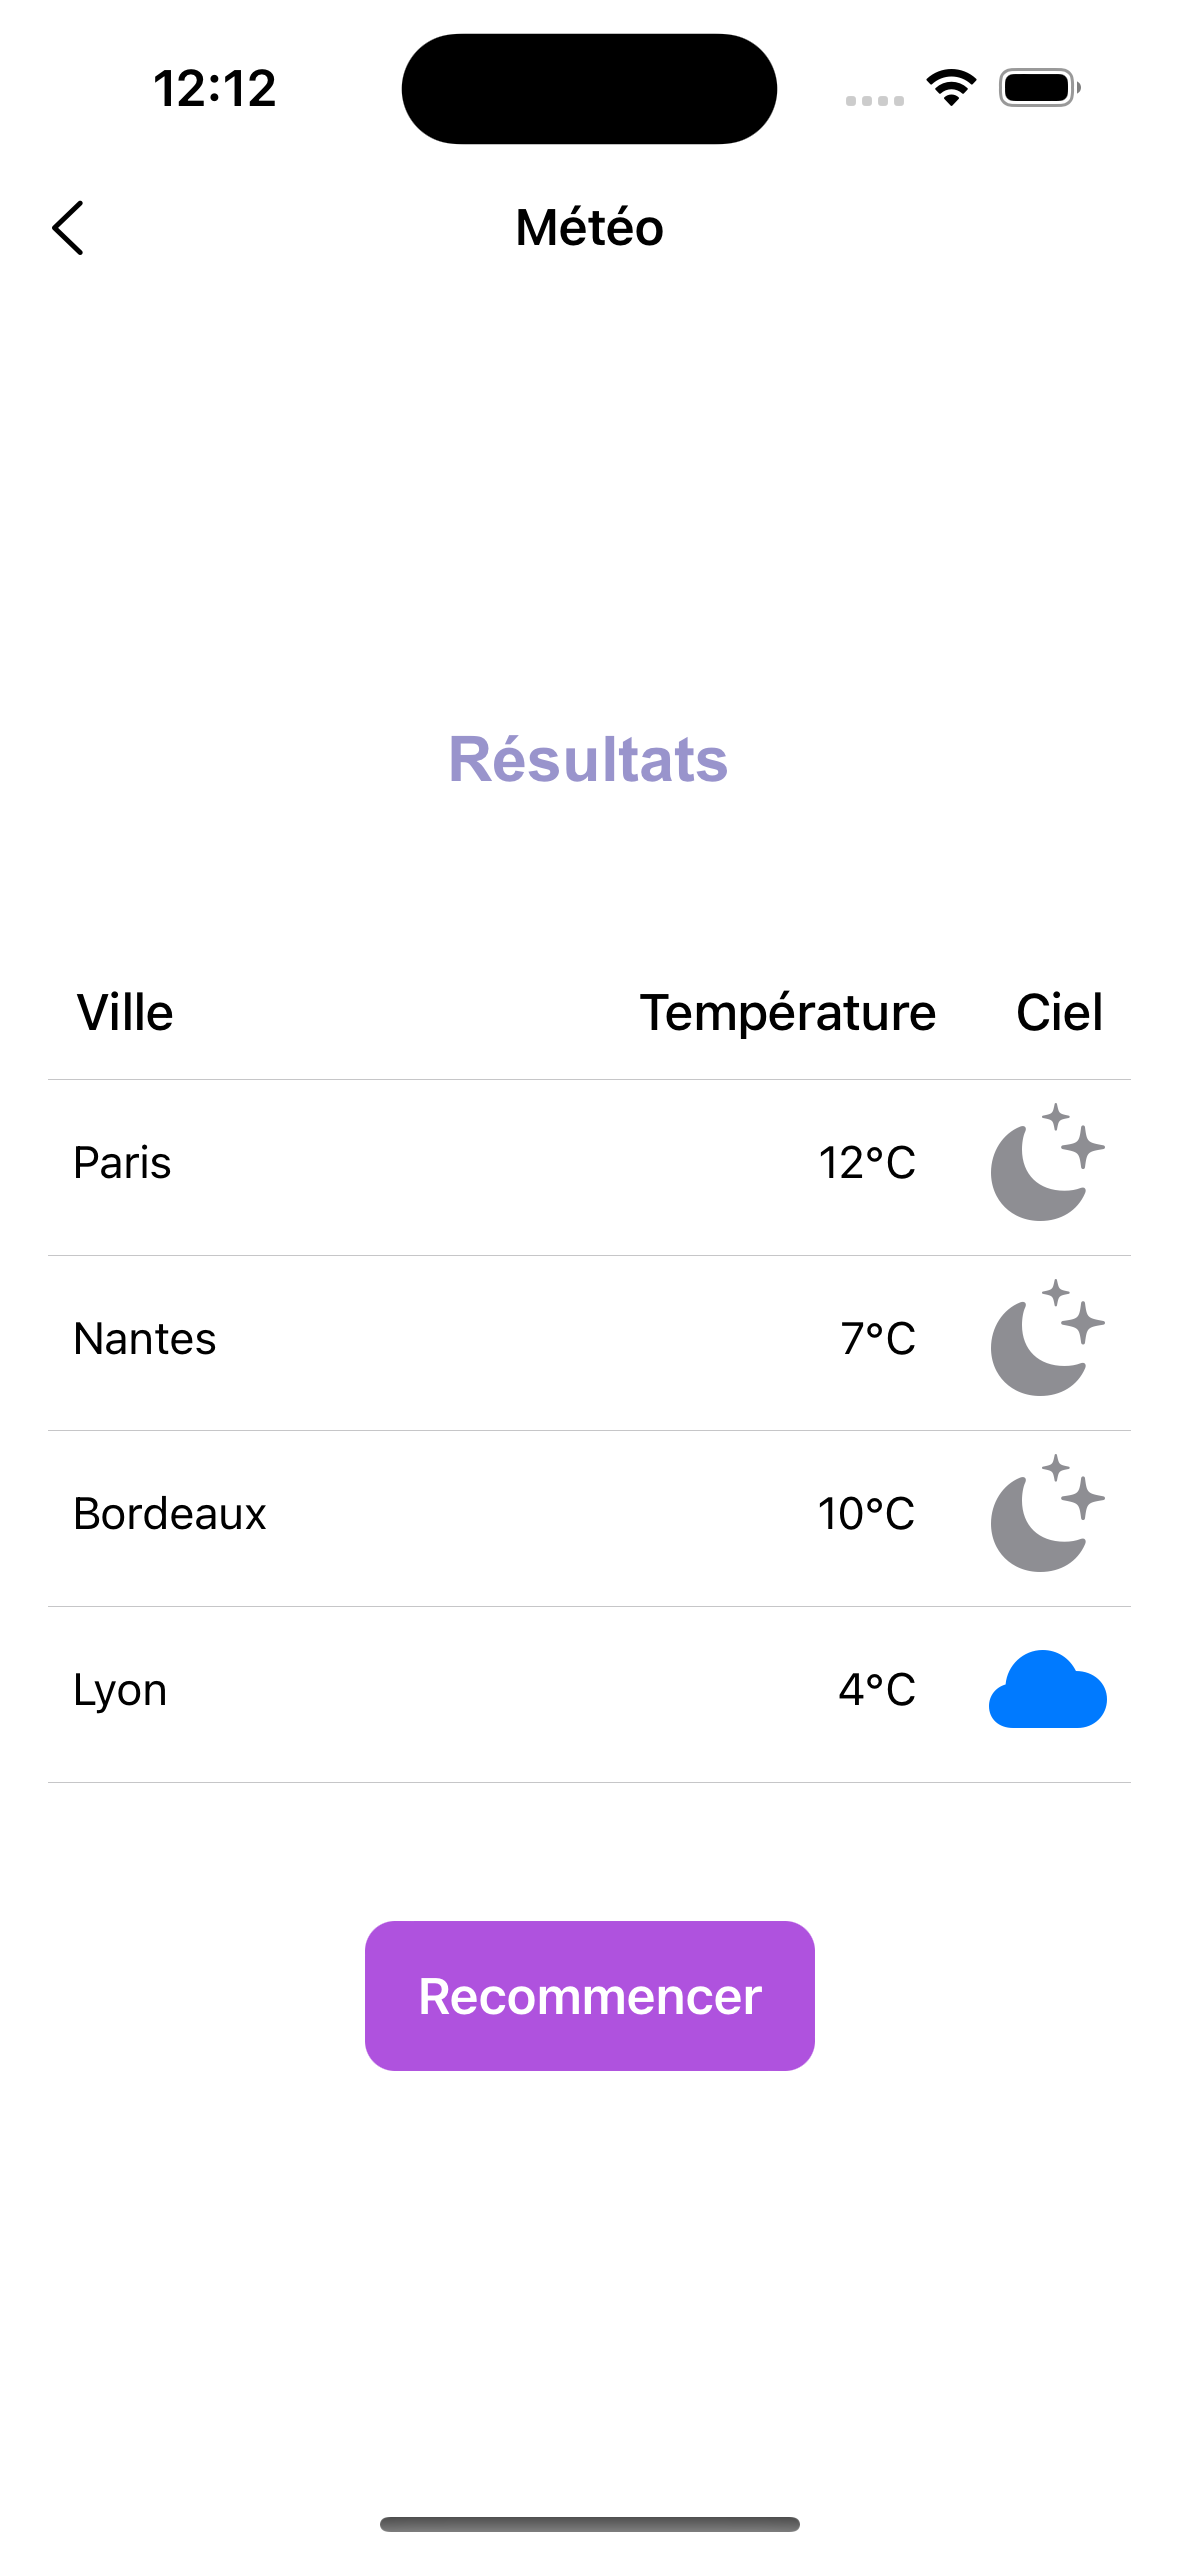
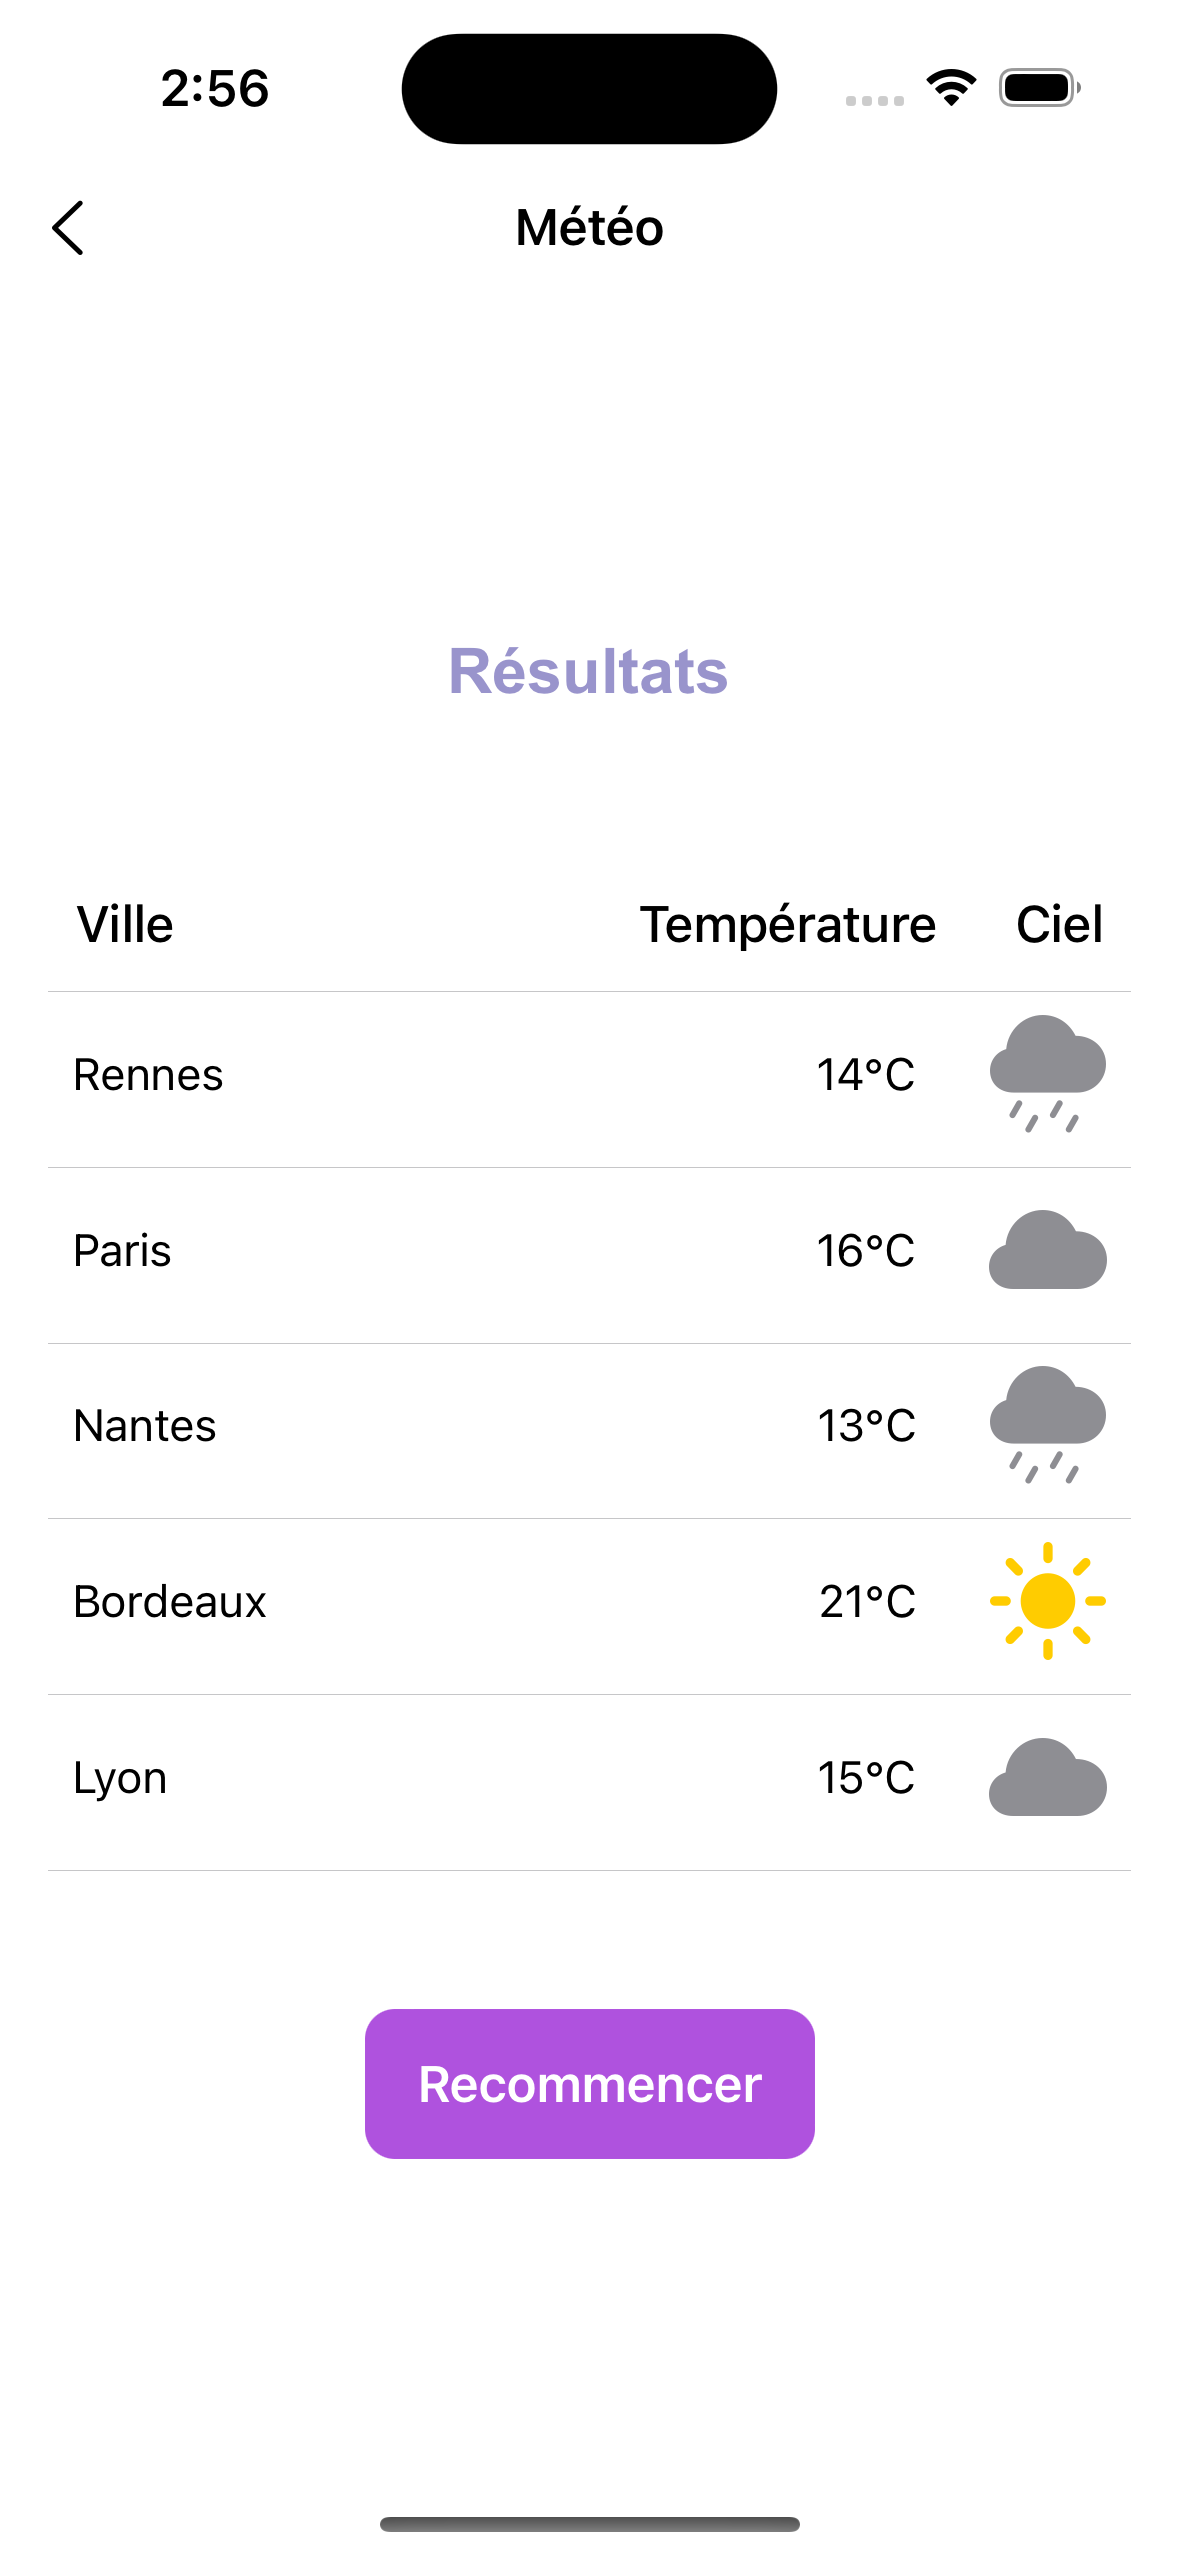
ajout de la ville de Rennes au tableau

diff --git a/EXOMIND/VIEWS/WeatherReportView.swift b/EXOMIND/VIEWS/WeatherReportView.swift
@@ -207,7 +207,7 @@ extension WeatherReportView {
     }
     
     func updatePercentage() {
-//         chaque 10 secondes, la jauge doit augmenter de 16.67%
+        // chaque 10 secondes, la jauge doit augmenter de 16.67%
         let increment = 10
         totalSeconds += Double(increment)
 
@@ -219,18 +219,23 @@ extension WeatherReportView {
 
         currentPercentage = (totalSeconds / 60) * 100
 
-//         Appel à l'API pour chaque ville pendant chaque intervalle de 10 secondes
+        // Appel à l'API pour chaque ville pendant chaque intervalle de 10 secondes
         apiCallInterval += increment
         if apiCallInterval >= 60 {
-//             réinitialise la variable apiCallInterval à 0
+            // réinitialise la variable apiCallInterval à 0
             apiCallInterval = 0
         }
+        
         let cities = ["Rennes", "Paris", "Nantes", "Bordeaux", "Lyon"]
         let apiKey = "3a629d79e54f226d5778cb740a6c7a61"
-        let cityIndex = Int(apiCallInterval / increment)
-        if cityIndex < cities.count {
+       let cityIndex = Int(apiCallInterval / increment) - 1
+      //  let cityIndex = (Int(currentPercentage) / 10) - 1 // Récupère l'index de la ville à appeler
+
+       
+        if cityIndex >= 0 && cityIndex < cities.count {
             let city = cities[cityIndex]
             Get_Properties(city: city, apiKey: apiKey) { weatherData, icon, error in
+           // Get_Properties(city: city, apiKey: apiKey) { weatherData, error in
                 if let error = error {
                     print("Error fetching weather data for \(city): \(error)")
                     return
@@ -239,18 +244,19 @@ extension WeatherReportView {
                     print("No weather data for \(city)")
                     return
                 }
-//                 Ajout des données météorologiques à cityWeathers
-                self.cityWeathers.append(weatherData)
-                print("Weather data for \(city): \(weatherData)")
-                print("Weather \(self.cityWeathers)")
+                self.cityWeathers.append(weatherData) // Ajout des données météorologiques à cityWeathers
+                    print("Weather data for \(city): \(weatherData)")
+                print("Weather \(cityWeathers)")
+               
             }
         }
-//         met à jour la valeur toutes les 10 secondes
+
+        // met à jour la valeur toutes les 10 secondes
         DispatchQueue.main.asyncAfter(deadline: .now() + Double(increment)) {
             self.updatePercentage()
         }
     }
-    
+  
     func startUpdatingPercentage() {
         DispatchQueue.main.asyncAfter(deadline: .now() + Double(increment)) {
 //             Initialisation de la valeur à 0
@@ -282,6 +288,10 @@ extension WeatherReportView {
             return ("cloud.fill", isDaytime ? .gray : .blue, isDaytime ? .white : .gray)
         case let x where x.contains("scattered") && x.contains("cloud"):
             return ("cloud", isDaytime ? .gray : .blue, isDaytime ? .white : .gray)
+        case let x where x.contains("broken") && x.contains("cloud"):
+                return ("cloud.drizzle.fill", isDaytime ? .gray : .blue, isDaytime ? .white : .gray)
+        case let x where x.contains("light") && x.contains("rain"):
+            return ("cloud.drizzle.fill", isDaytime ? .gray : .blue, isDaytime ? .white : .gray)
         case let x where x.contains("clear"):
             return (isDaytime ? "sun.max.fill" : "moon.stars.fill", isDaytime ? .yellow : .gray, isDaytime ? .white : .gray)
         case let x where x.contains("cloud"):
